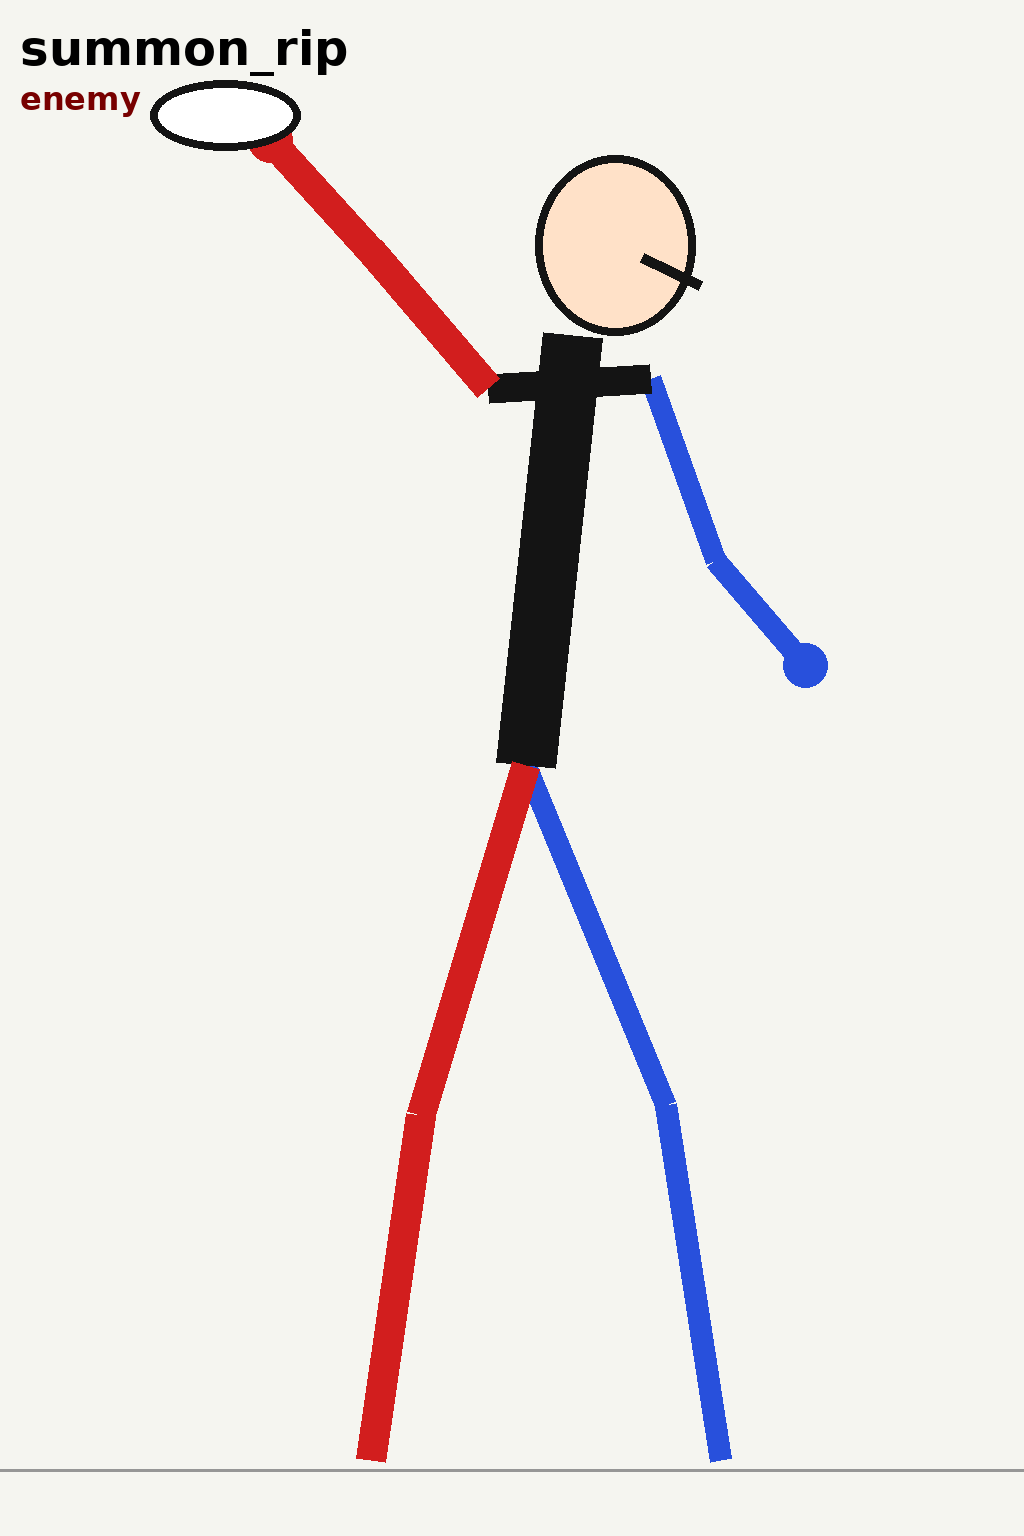
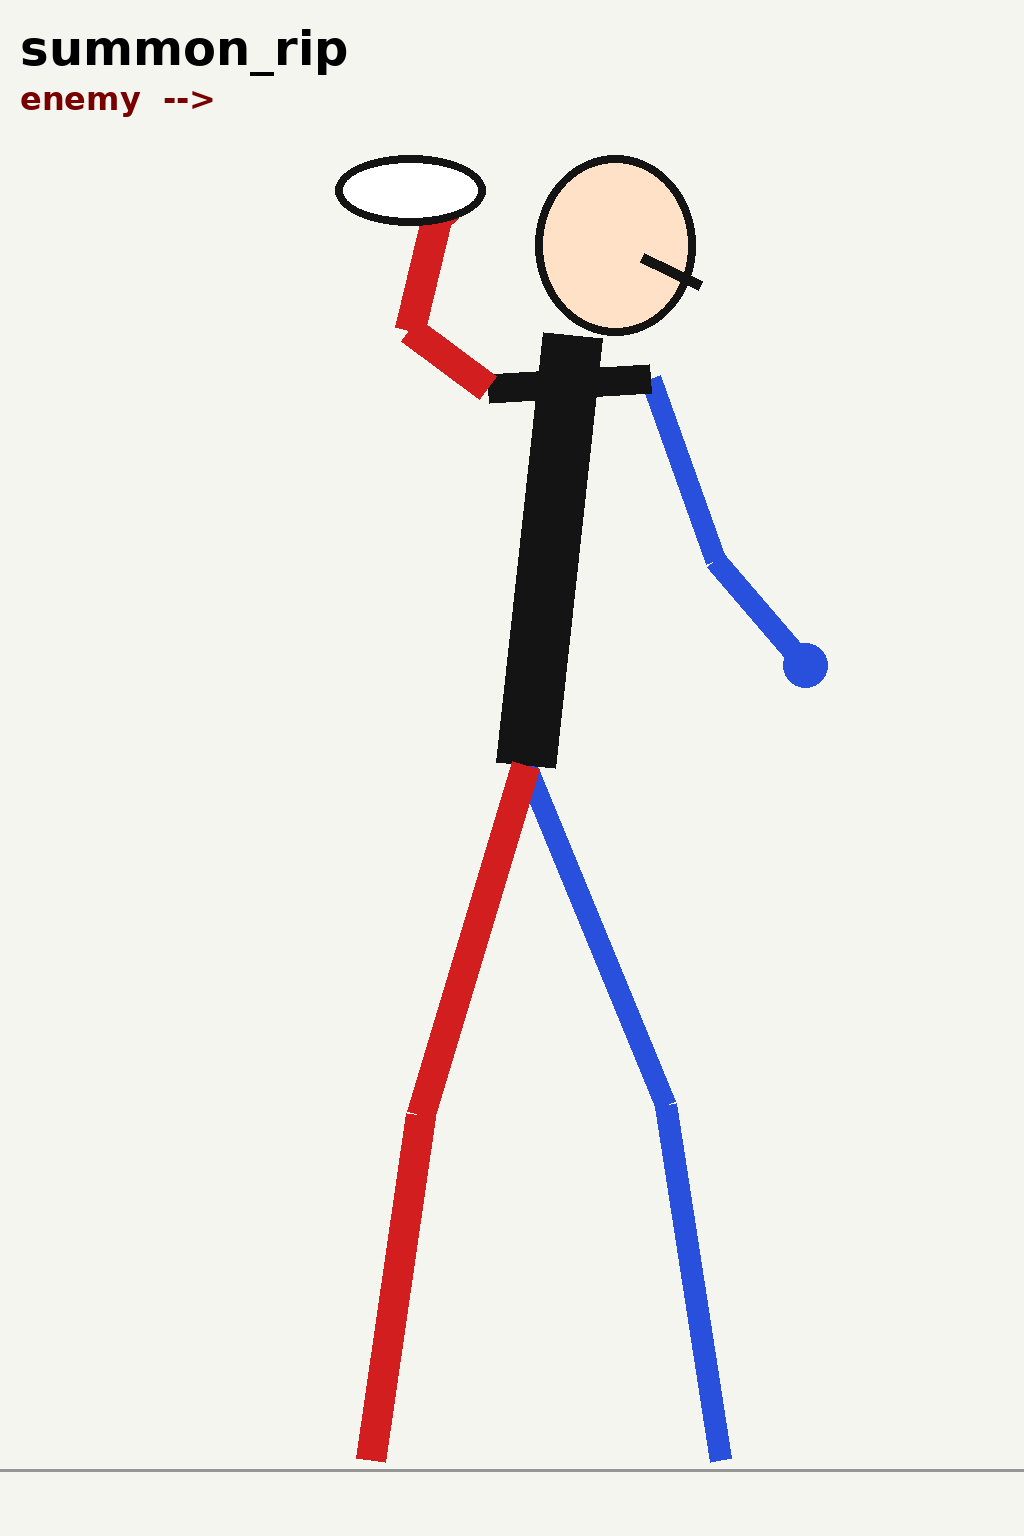
docs: P5 summon rip - pull mask about a forearm away, not a full fling
Claude-Session: https://claude.ai/code/session_01Nam5m2bn9ofCCWTGM6fwcN

Changed region(s): [[0.125, 0.0312, 0.4688, 0.25]]

diff --git a/tools/p5/pose_plan.py b/tools/p5/pose_plan.py
@@ -24,7 +24,7 @@ P = {
  'gun_lower': dict(head=(592, 226), neck=(560, 322), pelvis=(528, 778), rs=(480, 370), ls=(628, 362), re=(535, 585), le=(662, 578), rh=(640, 700), lh=(672, 745), rk=(425, 1110), lk=(665, 1110), rf=(360, 1460), lf=(720, 1455), gun=((640, 700), (690, 785))),
  'summon_mid': dict(head=(575, 240), neck=(548, 338), pelvis=(515, 800), rs=(455, 388), ls=(628, 378), re=(430, 590), le=(668, 590), rh=(535, 470), lh=(690, 755), rk=(425, 1125), lk=(648, 1120), rf=(370, 1460), lf=(720, 1460)),
  'summon_grab': dict(head=(600, 320), neck=(560, 410), pelvis=(500, 850), rs=(462, 458), ls=(640, 448), re=(395, 335), le=(690, 620), rh=(560, 305), lh=(745, 750), rk=(410, 1160), lk=(655, 1140), rf=(370, 1460), lf=(720, 1460), mask=(600, 305)),
- 'summon_rip': dict(head=(615, 245), neck=(572, 335), pelvis=(525, 765), rs=(488, 388), ls=(650, 378), re=(370, 250), le=(715, 560), rh=(270, 140), lh=(805, 665), rk=(420, 1115), lk=(665, 1105), rf=(370, 1460), lf=(720, 1460), mask=(225, 115)),
+ 'summon_rip': dict(head=(615, 245), neck=(572, 335), pelvis=(525, 765), rs=(488, 388), ls=(650, 378), re=(410, 330), le=(715, 560), rh=(440, 205), lh=(805, 665), rk=(420, 1115), lk=(665, 1105), rf=(370, 1460), lf=(720, 1460), mask=(410, 190)),
  'summon_end': dict(head=(575,215), neck=(548,315), pelvis=(518,770), rs=(450,370), ls=(625,360), re=(400,530), le=(670,580), rh=(420,700), lh=(700,750), rk=(435,1110), lk=(645,1105), rf=(390,1460), lf=(705,1455)),
  'glove_mid': dict(head=(575,210), neck=(545,310), pelvis=(520,760), rs=(445,360), ls=(625,350), re=(430,590), le=(660,580), rh=(510,620), lh=(640,680), rk=(440,1100), lk=(640,1100), rf=(400,1460), lf=(700,1450)),
  'glove': dict(head=(585,225), neck=(550,315), pelvis=(520,760), rs=(450,365), ls=(625,355), re=(460,580), le=(670,600), rh=(610,470), lh=(575,505), rk=(440,1100), lk=(640,1100), rf=(400,1460), lf=(700,1450)),
